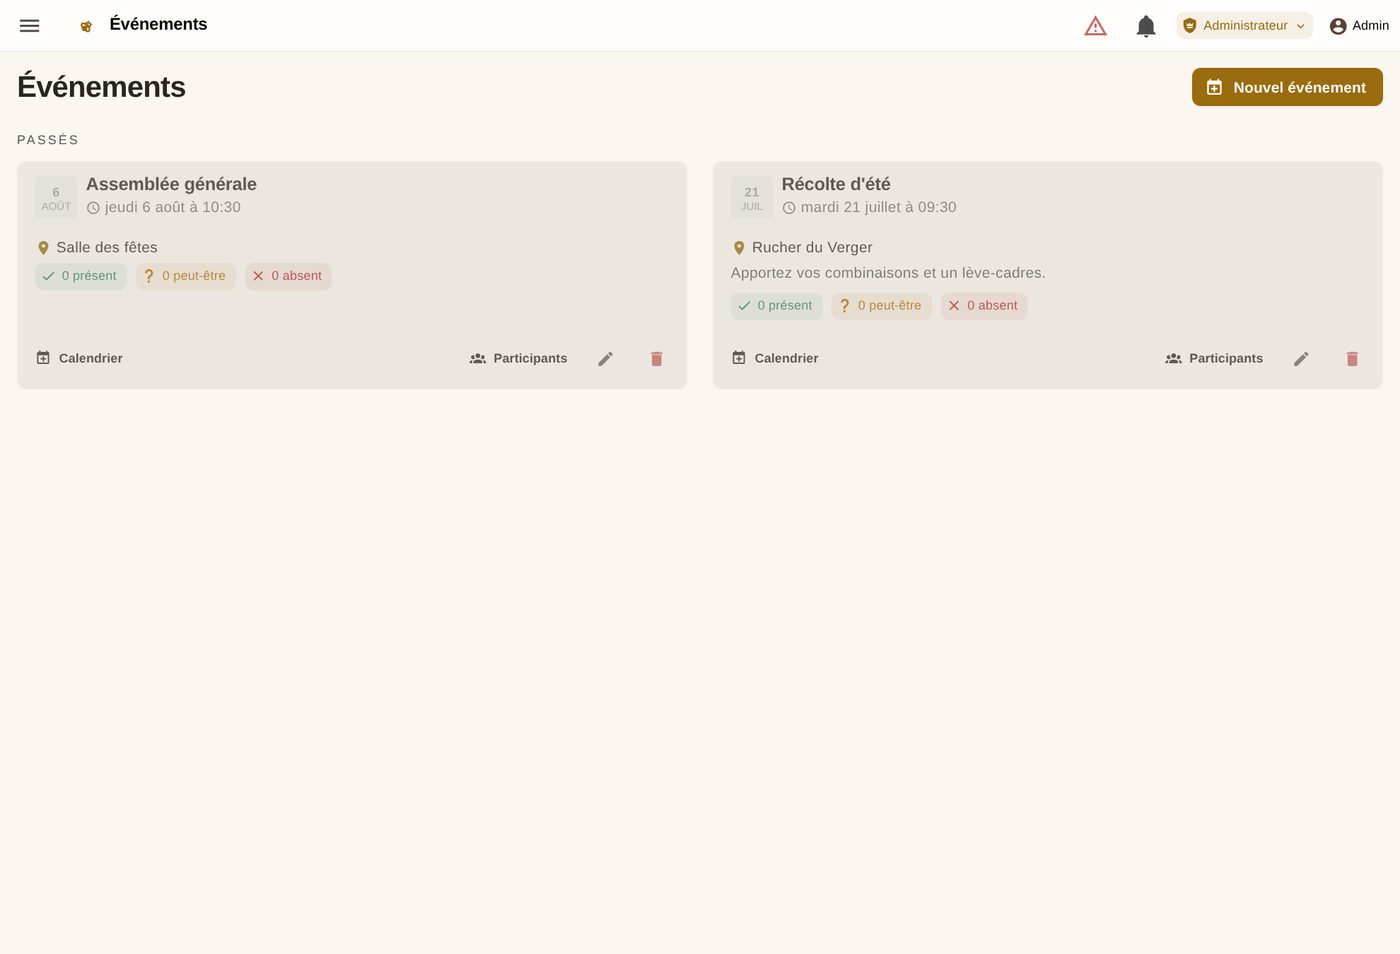
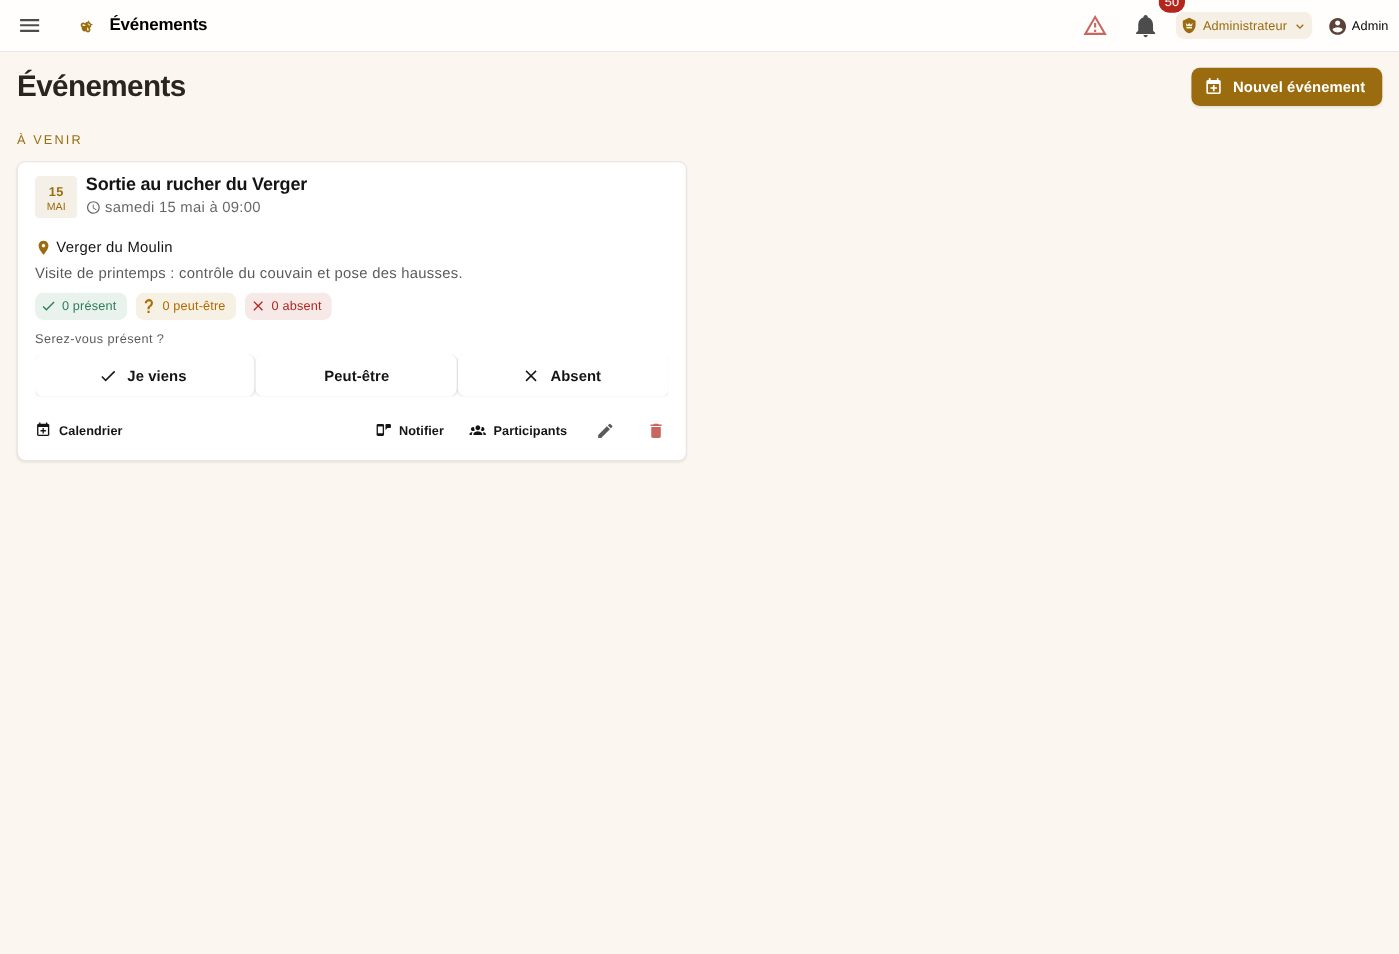
Relancer une notification sur un événement
La notification partait à la création, et rien ne permettait d'en
déclencher une autre. Impossible de relancer la veille d'une sortie, ou
de signaler un détail de dernière minute autrement qu'en modifiant la
date pour provoquer l'envoi automatique.

Un bouton « Notifier » sur chaque événement à venir envoie une nouvelle
notification sur les téléphones, avec un message libre — une relance dit
rarement la même chose que l'annonce initiale. Laissé vide, le message
reprend la date, le lieu et l'invitation à répondre.

Ouvert à l'organisateur de l'événement, même s'il n'est pas
administrateur : c'est lui qui sait quand la relance est utile, et il
n'a pas à en passer par quelqu'un d'autre. Et aux administrateurs, pour
n'importe quel événement.

L'audience suit la visibilité : un événement privé n'étant visible que
des administrateurs, le notifier à tous en dévoilerait le contenu.

La colonne « last_notified_at » retient la date du dernier envoi, et la
fenêtre la rappelle avant de relancer : sans ce repère, on renotifie par
précaution et les adhérents reçoivent tout en double.

Claude-Session: https://claude.ai/code/session_01Cjb3j3YXGNGFMCv5gLZbMm

diff --git a/frontend/src/views/EventsView.vue b/frontend/src/views/EventsView.vue
@@ -21,14 +21,69 @@
     <template v-else>
       <template v-if="upcoming.length">
         <div class="text-overline text-primary mt-2 mb-1">À venir</div>
-        <EventCardList :events="upcoming" @rsvp="doRsvp" @edit="openEdit" @remove="removeEvent" @participants="openParticipants" @calendar-ics="downloadICS" @calendar-google="openGoogle" :is-admin="auth.isAdmin" :busy-id="busyId" />
+        <EventCardList :events="upcoming" @rsvp="doRsvp" @edit="openEdit" @remove="removeEvent" @participants="openParticipants" @calendar-ics="downloadICS" @calendar-google="openGoogle" @notify="openNotify" :is-admin="auth.isAdmin" :user-id="auth.user?.id" :busy-id="busyId" />
       </template>
 
       <template v-if="past.length">
         <div class="text-overline text-medium-emphasis mt-4 mb-1">Passés</div>
-        <EventCardList :events="past" past @rsvp="doRsvp" @edit="openEdit" @remove="removeEvent" @participants="openParticipants" @calendar-ics="downloadICS" @calendar-google="openGoogle" :is-admin="auth.isAdmin" :busy-id="busyId" />
+        <EventCardList :events="past" past @rsvp="doRsvp" @edit="openEdit" @remove="removeEvent" @participants="openParticipants" @calendar-ics="downloadICS" @calendar-google="openGoogle" @notify="openNotify" :is-admin="auth.isAdmin" :user-id="auth.user?.id" :busy-id="busyId" />
       </template>
     </template>
+
+    <!-- Dialog : relancer une notification vers les téléphones -->
+    <v-dialog v-model="showNotify" max-width="520">
+      <v-card>
+        <v-card-title class="d-flex align-center">
+          <v-icon class="mr-2" color="primary">mdi-cellphone-message</v-icon>
+          Notifier les adhérents
+        </v-card-title>
+        <v-card-text>
+          <p class="mb-3">
+            <b>{{ notifyEvent?.title }}</b>
+            <span v-if="notifyEvent?.start_at" class="text-medium-emphasis">
+              — {{ formatDate(notifyEvent.start_at) }}
+            </span>
+          </p>
+
+          <!-- Dire à qui cela part : une notification se reçoit sur le
+               téléphone, on ne l'envoie pas à l'aveugle. -->
+          <v-alert type="info" variant="tonal" density="compact" class="mb-4">
+            <span v-if="notifyEvent?.is_public">
+              Part à <b>tous les adhérents</b> ayant activé les notifications
+              d'événements, sur leur téléphone.
+            </span>
+            <span v-else>
+              Événement <b>privé</b> : seuls les <b>administrateurs</b> seront
+              notifiés, puisqu'eux seuls le voient.
+            </span>
+          </v-alert>
+
+          <v-alert
+            v-if="notifyEvent?.last_notified_at"
+            type="warning" variant="tonal" density="compact" class="mb-4"
+          >
+            Une notification a déjà été envoyée le
+            <b>{{ formatDateTime(notifyEvent.last_notified_at) }}</b>.
+          </v-alert>
+
+          <v-textarea
+            v-model="notifyMessage"
+            label="Message (facultatif)"
+            hint="Laissé vide : la date, le lieu et l'invitation à répondre. Sinon, votre texte — « rendez-vous 9h au parking », « pensez à votre combinaison »."
+            persistent-hint
+            rows="3"
+            maxlength="300"
+          />
+        </v-card-text>
+        <v-card-actions>
+          <v-spacer />
+          <v-btn @click="showNotify = false">Annuler</v-btn>
+          <v-btn color="primary" :loading="notifying" prepend-icon="mdi-send" @click="sendNotify">
+            Envoyer la notification
+          </v-btn>
+        </v-card-actions>
+      </v-card>
+    </v-dialog>
 
     <!-- Dialog création / édition (admin) -->
     <v-dialog v-model="showForm" max-width="560">
@@ -112,6 +167,36 @@ const showForm = ref(false)
 const editId = ref(null)
 const saving = ref(false)
 
+// Relance de notification (organisateur ou administrateur)
+const showNotify = ref(false)
+const notifyEvent = ref(null)
+const notifyMessage = ref('')
+const notifying = ref(false)
+
+function openNotify(ev) {
+  notifyEvent.value = ev
+  notifyMessage.value = ''
+  showNotify.value = true
+}
+
+async function sendNotify() {
+  notifying.value = true
+  try {
+    const { data } = await api.post(`/events/${notifyEvent.value.id}/notify`,
+                                    { message: notifyMessage.value.trim() || null })
+    // Remplacer l'événement en place : la date du dernier envoi est à jour
+    // sans recharger toute la liste.
+    const i = events.value.findIndex((e) => e.id === data.id)
+    if (i !== -1) events.value[i] = data
+    showNotify.value = false
+    flash('Notification envoyée')
+  } catch (e) {
+    flash(apiError(e, "La notification n'a pas pu être envoyée"), 'error')
+  } finally {
+    notifying.value = false
+  }
+}
+
 const showParticipants = ref(false)
 const participants = ref([])
 
@@ -143,6 +228,16 @@ const participantGroups = computed(() => {
 })
 
 function flash(msg, color = 'success') { snackMsg.value = msg; snackColor.value = color; snack.value = true }
+
+function formatDate(dt) {
+  return new Date(dt).toLocaleDateString('fr-FR',
+    { weekday: 'long', day: 'numeric', month: 'long' })
+}
+function formatDateTime(dt) {
+  const d = new Date(dt)
+  return d.toLocaleDateString('fr-FR')
+    + ' à ' + d.toLocaleTimeString('fr-FR', { hour: '2-digit', minute: '2-digit' })
+}
 
 async function load() {
   loading.value = true

diff --git a/frontend/src/views/docs/GuideSuiviView.vue b/frontend/src/views/docs/GuideSuiviView.vue
@@ -89,14 +89,30 @@ const sections = [
         "Cliquez sur le bouton <b>Calendrier</b> de l'événement.",
         "Choisissez <b>Apple / Android (.ics)</b> ou <b>Google Agenda</b> : la date se place dans votre agenda habituel, avec le lieu.",
       ] },
-      { h3: 'Créer un événement (administrateur)' },
+      { h3: 'Créer un événement' },
+      { p: "Réservé aux <b>administrateurs</b> et aux <b>responsables de rucher</b>." },
       { steps: [
         "Cliquez sur <b>Nouvel événement</b>.",
         "Renseignez l'<b>intitulé</b>, la <b>date</b>, les <b>horaires</b>, le <b>lieu</b> et la <b>description</b>.",
-        "Indiquez s'il est <b>public</b> (visible sur le site) ou réservé aux adhérents.",
-        "Enregistrez, puis utilisez <b>Notifier</b> pour prévenir tout le monde.",
-        "La <b>liste des participants</b> est consultable sur la carte de l'événement.",
+        "Indiquez s'il est <b>public</b> (visible de tous les adhérents) ou <b>privé</b> (visible des seuls administrateurs).",
+        "Enregistrez. La <b>liste des participants</b> est ensuite consultable sur la carte de l'événement.",
       ] },
+      { h3: 'Relancer : envoyer une notification sur les téléphones' },
+      { p: "Une annonce faite trois semaines à l'avance se perd. Le bouton <b>Notifier</b> envoie une nouvelle notification quand vous le décidez : la veille d'une sortie, ou pour un détail de dernière minute." },
+      { steps: [
+        "Sur la carte de l'événement, cliquez sur <b>Notifier</b>.",
+        "Relisez l'encadré : il dit <b>à qui</b> la notification va partir.",
+        "Écrivez un <b>message</b> si vous le souhaitez — « rendez-vous 9h au parking », « pensez à votre combinaison ». Laissé vide, le message reprend la date, le lieu et l'invitation à répondre.",
+        "Cliquez sur <b>Envoyer la notification</b>.",
+      ] },
+      { img: 'g-evenement-notifier.jpg', cap: "Relancer une notification sur un événement." },
+      { table: { head: ['Vous êtes…', 'Vous pouvez notifier…'], rows: [
+        ["<b>L'organisateur</b> de l'événement", "Le vôtre, même si vous n'êtes pas administrateur."],
+        ['<b>Administrateur</b>', "N'importe quel événement."],
+        ['<b>Adhérent</b>', "Le bouton n'apparaît pas."],
+      ] } },
+      { note: "Un événement <b>privé</b> n'étant visible que des administrateurs, seuls eux en sont notifiés — le notifier à tous en dévoilerait le contenu." },
+      { tip: "La fenêtre rappelle la <b>date du dernier envoi</b> : on voit d'un coup d'œil si quelqu'un a déjà relancé, et les adhérents ne reçoivent pas tout en double." },
     ],
   },
 ]

diff --git a/frontend/src/components/EventCardList.vue b/frontend/src/components/EventCardList.vue
@@ -70,6 +70,17 @@
 
           <v-spacer />
 
+          <!-- L'organisateur relance son propre événement sans dépendre d'un
+               administrateur : c'est lui qui sait quand c'est utile. -->
+          <v-btn
+            v-if="!past && canNotify(ev)"
+            size="small" variant="text" prepend-icon="mdi-cellphone-message"
+            :title="lastNotified(ev)"
+            @click="$emit('notify', ev)"
+          >
+            Notifier
+          </v-btn>
+
           <template v-if="isAdmin">
             <v-btn size="small" variant="text" prepend-icon="mdi-account-group" @click="$emit('participants', ev)">Participants</v-btn>
             <v-btn icon size="small" variant="text" @click="$emit('edit', ev)"><v-icon>mdi-pencil</v-icon></v-btn>
@@ -88,9 +99,23 @@ const props = defineProps({
   events: { type: Array, default: () => [] },
   past: { type: Boolean, default: false },
   isAdmin: { type: Boolean, default: false },
+  // Identifiant de l'utilisateur courant : l'organisateur d'un événement peut
+  // le relancer, même s'il n'est pas administrateur.
+  userId: { type: [Number, null], default: null },
   busyId: { type: [Number, null], default: null },
 })
-const emit = defineEmits(['rsvp', 'edit', 'remove', 'participants', 'calendar-ics', 'calendar-google'])
+const emit = defineEmits(['rsvp', 'edit', 'remove', 'participants', 'calendar-ics', 'calendar-google', 'notify'])
+
+function canNotify(ev) {
+  return props.isAdmin || (props.userId != null && ev.created_by === props.userId)
+}
+
+function lastNotified(ev) {
+  if (!ev.last_notified_at) return "Aucune notification envoyée pour l'instant"
+  const d = new Date(ev.last_notified_at)
+  return 'Dernière notification : ' + d.toLocaleDateString('fr-FR')
+    + ' à ' + d.toLocaleTimeString('fr-FR', { hour: '2-digit', minute: '2-digit' })
+}
 
 const pending = ref(null)
 function emitRsvp(ev, response) {

diff --git a/backend/app/routers/events.py b/backend/app/routers/events.py
@@ -7,13 +7,14 @@ from sqlalchemy import select, func, delete
 
 from app.database import get_db
 from app.models.event import Event, EventRSVP
-from app.models.user import User, RoleEnum
+from app.models.user import User, UserRole, RoleEnum
 from app.schemas.event import (
     EventCreate, EventUpdate, EventOut, RSVPCounts, RSVPIn, ParticipantOut,
+    EventNotifyIn,
 )
 from app.utils.auth import get_current_user, require_roles, get_user_roles
 from app.utils.audit import log_action
-from app.utils.push import notify
+from app.utils.push import notify, notify_users
 
 router = APIRouter(prefix="/api/events", tags=["events"])
 
@@ -104,6 +105,7 @@ async def create_event(
     # Notification push à tous les adhérents abonnés (catégorie « events »),
     # uniquement pour un événement public dont l'admin a demandé la diffusion.
     if body.notify and body.is_public:
+        ev.last_notified_at = datetime.utcnow()
         when = body.start_at.strftime("%d/%m à %Hh%M")
         lieu = f" — {body.location}" if body.location else ""
         notify(
@@ -169,6 +171,73 @@ async def delete_event(
     notify("events", "❌ Événement annulé",
            f"{title}{' — ' + when if when else ''} a été annulé.", "/app/events",
            exclude_user_id=user.id)
+
+
+@router.post("/{event_id}/notify", response_model=EventOut)
+async def notify_event(
+    event_id: int,
+    body: EventNotifyIn,
+    db: AsyncSession = Depends(get_db),
+    user: User = Depends(get_current_user),
+):
+    """Renvoie une notification sur un événement, vers les téléphones.
+
+    La notification initiale part à la création, et rien ne permettait d'en
+    déclencher une autre : impossible de relancer avant une sortie, ou de
+    prévenir d'un détail de dernière minute autrement qu'en modifiant la date.
+
+    Réservé à l'**organisateur** de l'événement et aux **administrateurs** :
+    ce sont eux qui répondent de ce qui arrive sur le téléphone des adhérents.
+
+    L'audience suit la visibilité de l'événement — un événement privé n'étant
+    visible que des administrateurs, le notifier à tous en dévoilerait le
+    contenu.
+    """
+    ev = await db.get(Event, event_id)
+    if not ev:
+        raise HTTPException(404, "Événement introuvable")
+
+    if not _is_admin(user) and ev.created_by != user.id:
+        raise HTTPException(
+            403,
+            "Seuls l'organisateur de l'événement et les administrateurs "
+            "peuvent envoyer une notification.",
+        )
+
+    message = (body.message or "").strip()
+    when = ev.start_at.strftime("%d/%m à %Hh%M") if ev.start_at else ""
+    lieu = f" — {ev.location}" if ev.location else ""
+    texte = message[:300] if message else (
+        f"{when}{lieu}. Indiquez si vous venez."
+    )
+
+    if ev.is_public:
+        # Tous les adhérents abonnés à la catégorie « événements ».
+        notify("events", "📅 " + ev.title, texte, "/app/events",
+               exclude_user_id=user.id)
+        portee = "tous les adhérents abonnés aux événements"
+    else:
+        # Événement privé : seuls les administrateurs le voient, donc seuls
+        # eux peuvent en être notifiés.
+        res = await db.execute(
+            select(User.id)
+            .join(UserRole, UserRole.user_id == User.id)
+            .where(User.is_active.is_(True), UserRole.role == RoleEnum.ADMIN)
+        )
+        cibles = [uid for uid in set(res.scalars().all()) if uid != user.id]
+        if cibles:
+            notify_users(cibles, "📅 " + ev.title, texte, "/app/events",
+                         category="events")
+        portee = "les administrateurs (événement privé)"
+
+    ev.last_notified_at = datetime.utcnow()
+    await log_action(db, user.id, "notify", "event", ev.id,
+                     details=(message[:200] or portee))
+    await db.flush()
+
+    counts = (await _counts_map(db, [ev.id]))[ev.id]
+    mine = (await _my_responses(db, [ev.id], user.id)).get(ev.id)
+    return _to_out(ev, mine, counts)
 
 
 @router.post("/{event_id}/rsvp", response_model=EventOut)

diff --git a/backend/app/releases.py b/backend/app/releases.py
@@ -10,6 +10,17 @@ Convention : la version la plus récente en tête.
 
 RELEASES = [
     {
+        "version": "1.8.6",
+        "date": "2026-09-14",
+        "title": "Relancer une notification sur un événement",
+        "highlights": [
+            "Un bouton « Notifier » sur chaque événement envoie une nouvelle notification sur les téléphones, quand vous le décidez : la veille d'une sortie, ou pour un détail de dernière minute.",
+            "Ouvert à l'organisateur de l'événement — même s'il n'est pas administrateur — et aux administrateurs.",
+            "Un message libre peut accompagner la relance ; sinon la date, le lieu et l'invitation à répondre sont repris.",
+            "La date du dernier envoi est rappelée avant de relancer, pour ne pas notifier deux fois la même chose.",
+        ],
+    },
+    {
         "version": "1.8.5",
         "date": "2026-09-14",
         "title": "Signalement général, sans passer par une ruche",

diff --git a/backend/app/schemas/event.py b/backend/app/schemas/event.py
@@ -45,6 +45,8 @@ class EventOut(EventBase):
     # Réponse de l'utilisateur courant ("yes"/"maybe"/"no") ou None
     my_response: Optional[str] = None
     counts: RSVPCounts = RSVPCounts()
+    # Dernière notification envoyée vers les téléphones (None = jamais).
+    last_notified_at: Optional[datetime] = None
 
     class Config:
         from_attributes = True
@@ -60,3 +62,13 @@ class ParticipantOut(BaseModel):
     email: Optional[str] = None
     response: str
     responded_at: Optional[datetime] = None
+
+
+class EventNotifyIn(BaseModel):
+    """Relance de notification sur un événement.
+
+    ``message`` remplace le texte par défaut : une relance dit rarement la même
+    chose que l'annonce initiale (« rendez-vous 9h au parking », « pensez à
+    votre combinaison »).
+    """
+    message: Optional[str] = None

diff --git a/backend/app/ensure_schema.py b/backend/app/ensure_schema.py
@@ -13,6 +13,13 @@ from sqlalchemy import text
 
 # (table, colonne, DDL d'ajout idempotent)
 COLUMN_MIGRATIONS = [
+    # Relance de notification sur un événement : sans cette colonne, la liste
+    # des événements renvoie 500 sur les bases antérieures.
+    (
+        "events",
+        "last_notified_at",
+        "ALTER TABLE events ADD COLUMN IF NOT EXISTS last_notified_at TIMESTAMP",
+    ),
     # Colonne « events » ajoutée avec la fonctionnalité Événements : sans cette
     # migration, /api/notifications/preferences et /subscribe renvoient 500 sur
     # les bases antérieures à cette fonctionnalité.

diff --git a/backend/app/models/event.py b/backend/app/models/event.py
@@ -25,6 +25,11 @@ class Event(Base):
     created_by = Column(Integer, ForeignKey("users.id", ondelete="SET NULL"), nullable=True)
     created_at = Column(DateTime, default=datetime.utcnow)
     updated_at = Column(DateTime, default=datetime.utcnow, onupdate=datetime.utcnow)
+    # Dernière notification poussée vers les téléphones. Sert à dire à
+    # l'organisateur s'il a déjà relancé, et quand : sans ce repère, on
+    # renotifie deux fois par précaution, et les adhérents reçoivent tout
+    # en double.
+    last_notified_at = Column(DateTime, nullable=True)
 
 
 class EventRSVP(Base):
